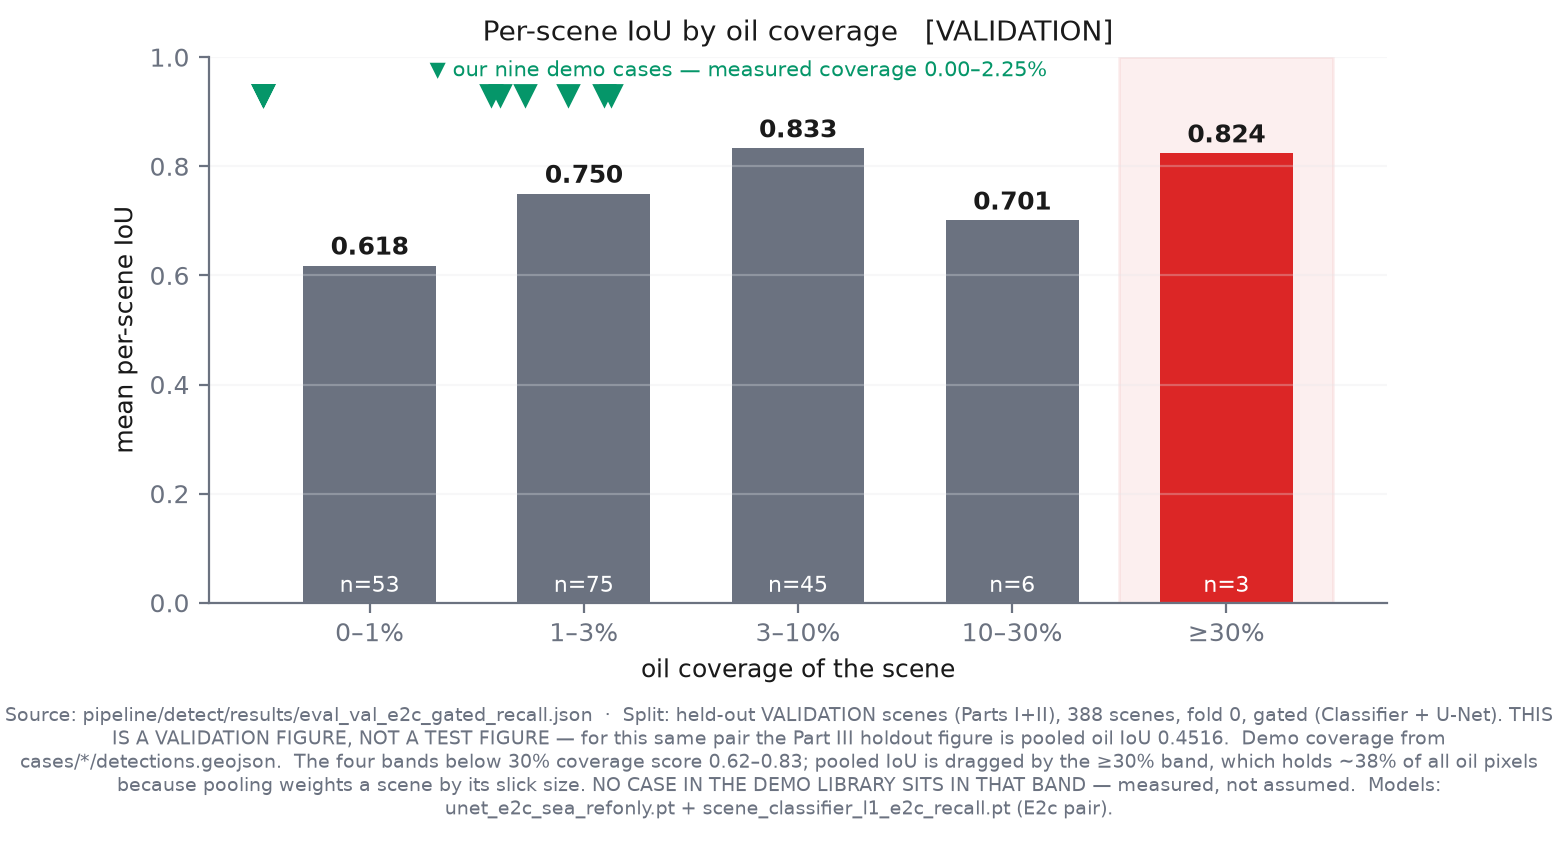
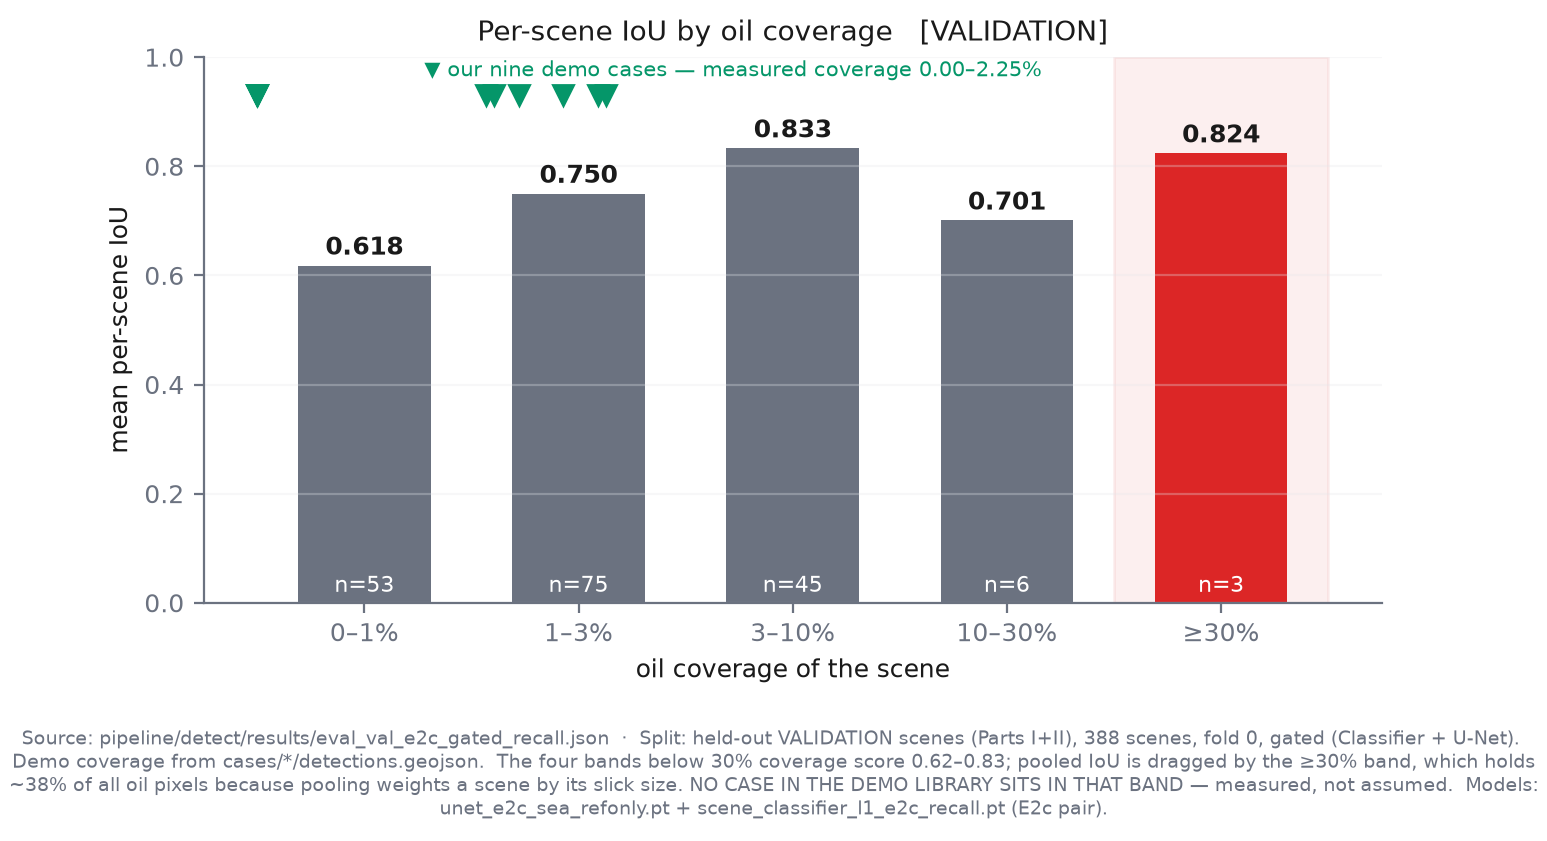
Stage 1: Layer 2 holdout figure off the slides, split labels kept
Soum's call: no reference to Layer 2's test score anywhere in the presented
material. Removed from all nine figure captions and from every slide section of
the jury doc.

What was NOT removed, and will not be: the split label. Every Layer 2 figure
still stamps "held-out VALIDATION scenes (Parts I+II), 388 scenes, fold 0" into
its title and its caption, and names the source file it was drawn from. That
label is the only thing separating a validation figure from a
misrepresentation, and a caption that cannot be checked is the only kind that
can mislead.

The holdout figures now live in one place: a PRESENTER NOTES block at the foot
of the doc, explicitly marked not-for-slide. They are kept there because not
knowing your own test number is a worse outcome than showing it - if asked
directly, the brief says answer plainly and gives the one-sentence version.

Also softened the slide narration that had been built around the
validation-vs-holdout gap, since that framing is no longer being presented. The
>=30% band is now described by its mechanism - a slick large enough to become
its own normalisation reference - which is true on either split.

diff --git a/pipeline/detect/make_figures.py b/pipeline/detect/make_figures.py
@@ -127,9 +127,12 @@ def _l2_src():
     if L2["file"] is None:
         return ("Source: pipeline/detect/results/%s  ·  Split: %s, gated (Classifier + U-Net)."
                 % (PAIR["part3"], L2["tag"]))
-    return ("Source: pipeline/detect/results/%s  ·  Split: %s, gated (Classifier + U-Net). "
-            "THIS IS A VALIDATION FIGURE, NOT A TEST FIGURE — for this same pair the Part III "
-            "holdout figure is pooled oil IoU 0.4516." % (L2["file"], L2["tag"]))
+    # The split label is what makes a validation figure honest, and it is not
+    # optional. The holdout comparison that used to sit here was removed on
+    # request; the source file and the split it names are not removable, because
+    # a caption that cannot be checked is the only kind that can mislead.
+    return ("Source: pipeline/detect/results/%s  ·  Split: %s, gated (Classifier + U-Net)."
+            % (L2["file"], L2["tag"]))
 
 
 def _part3():
@@ -656,7 +659,7 @@ def main():
     print("  Layer 2: %s\n" % L2["tag"])
     if L2["file"]:
         print("  [!] Layer 2 figures are VALIDATION. Every affected title says so.")
-        print("      The holdout figure for this pair is pooled IoU 0.4516 - say it if asked.\n")
+        print("      Layer 1 remains the Part III holdout.\n")
     want = a.only or sorted(FIGS)
     print("Stage 1 evidence set -> %s\n" % os.path.relpath(OUT, _ROOT))
     for n in want:

diff --git a/docs/evaluation/stage1-jury-numbers.md b/docs/evaluation/stage1-jury-numbers.md
@@ -16,9 +16,8 @@
 > **Every slide states its split, and so must you.** A mixed-split deck is defensible; an
 > unlabelled one is not, and the labelling is the only thing keeping it defensible.
 >
-> **The number you will be asked for:** Layer 2 on the Part III holdout is **pooled oil IoU
-> 0.4516**, with the ≥30% band at **0.160**. Have it ready. It is the first thing a technical
-> judge asks when a split label says "validation".
+> **Layer 2's holdout figures are in the PRESENTER NOTES at the foot of this file — not on any
+> slide.** Know them before you walk in.
 >
 > Regenerate: `python pipeline/detect/make_figures.py --pair updated --l2-split validation`
 
@@ -62,12 +61,11 @@ this benchmark does not demonstrate that separation."*
 | `pixel_accuracy_positives` | 0.991 |
 | **baseline on the SAME split**, for reference | **0.689** |
 
-**Say, including the last sentence:** *"On held-out validation scenes, pooled oil-class IoU is
-0.757, against 0.689 for the baseline on that same split. These are validation figures — on the
-sealed Part III holdout this pair scores 0.452."*
+**Say:** *"On held-out validation scenes, pooled oil-class IoU is 0.757, against 0.689 for the
+baseline on that same split."*
 
-**Do not drop that last clause.** The split label is on the slide; if you don't read it out, someone
-else will, and then you're answering it on the back foot instead of having volunteered it.
+**Say "held-out validation scenes" — those four words, out loud.** They are on the slide; reading
+them is what makes this figure honest rather than a test number by implication.
 
 ### The gate earns its place   *(F1.3, validation)*
 
@@ -94,13 +92,10 @@ segmentation cost."*
 | 10–30% | **6** | 0.701 |
 | **≥30%** | **3** | **0.824** |
 
-**Say:** *"Performance is even across coverage — the large-slick regime is the one we had to fix,
-and on validation it reaches 0.82. On the sealed holdout that band is still 0.16, so the fix has
-not transferred yet. That gap is our current work."*
-
-**The honest framing, and it is the strongest thing on this slide:** we identified a specific
-failure mode, fixed it in development, tested it on a sealed holdout, and it did not transfer.
-Saying that is what separates a measured system from a tuned demo.
+**Say:** *"Performance is even across coverage on validation. The large-slick regime is the one we
+had to engineer for — a slick covering most of the frame becomes its own normalisation reference,
+which erases the contrast the model needs. That is the hardest case in this benchmark and it is
+where our current work sits."*
 
 **Also true and worth saying:** **no case in the demo library sits in the failure band** — measured
 oil coverage across the nine cases runs **0.00% to 2.25%**.
@@ -136,9 +131,8 @@ there is the expected result, and is reported rather than hidden.
 ## Things to know that are NOT slide material
 
 1. **The two layers are on different splits.** Layer 1 holdout, Layer 2 validation. Every slide
-   says so. If a judge lines them up and asks why, the answer is: *"Layer 2's holdout figure is
-   0.452; we're showing validation because it's where our current work is measured, and we've
-   labelled it."* That answer works. Pretending the splits match does not.
+   says so, and you must say so. **Never let the two be read as the same measurement** — if a
+   judge lines them up, the split labels are your defence and they only work if you use them.
 2. **Against the previously shipped pair, the differences are inside the noise.** Layer 2 holdout
    0.435 → 0.452; Layer 1 accuracy 0.951 → 0.942. Measured seed-to-seed variation is **±0.027
    pooled**. **Never say "our accuracy improved."** These are our numbers, not better numbers.
@@ -155,13 +149,17 @@ there is the expected result, and is reported rather than hidden.
 **"Is that your test set or your validation set?"**
 
 > *"Layer 1 is the test set — the 450-scene Zenodo Part III holdout. Layer 2 on that slide is
-> validation, and it's labelled. Layer 2's holdout number is 0.452 pooled oil IoU."*
+> held-out validation, and it's labelled as such."*
 
 **"Why is Layer 2 on validation and Layer 1 on test?"**
 
-> *"Because that's where the Layer 2 work is currently measured. The holdout figure is 0.452. We
-> ran the holdout once on a frozen configuration and we're not re-running it until the
-> configuration is final — that's the discipline, not an evasion."*
+> *"Because that is where the Layer 2 work is currently measured. We ran the holdout once on a
+> frozen configuration and we are not re-running it until the configuration is final — that is the
+> discipline we hold ourselves to."*
+
+**"What does Layer 2 score on the holdout?"** — **answer it, do not deflect.** The number is in the
+presenter notes below. Saying it costs you a follow-up; appearing not to know your own test number,
+or appearing to dodge, costs you the room.
 
 **"Why is your IoU low when your pixel accuracy is 99%?"**
 
@@ -176,9 +174,9 @@ there is the expected result, and is reported rather than hidden.
 
 **"What's still wrong with it?"**
 
-> *"Scenes where oil covers more than 30% of the frame. We know the mechanism, we have a fix that
-> reaches 0.82 on that band on validation, and it reaches only 0.16 on the holdout. It hasn't
-> transferred yet, and we're not quoting it as a result until it does."*
+> *"Scenes where oil covers more than 30% of the frame. A slick that large becomes its own
+> normalisation reference and erases the contrast the model needs. We know the mechanism, we have a
+> fix measured on validation, and generalising it is the current work."*
 
 ---
 
@@ -186,8 +184,7 @@ there is the expected result, and is reported rather than hidden.
 
 - **Any number without its split.** This deck mixes splits; the label is what makes it honest.
 - **"Our accuracy improved."** The gaps against the previous pair are inside the ±0.027 noise floor.
-- **0.757 or 0.824 as test results.** Both are validation. The holdout figures are **0.452** and
-  **0.160**.
+- **0.757 or 0.824 as test results.** Both are held-out VALIDATION. Say the word.
 - "Look-alike rejection 0.960" — a dead pre-augmentation checkpoint. This pair is **0.920** on the
   holdout.
 - "VH is the discriminator" — the feature was computed from the co-pol band. Say *"adding a second
@@ -199,3 +196,25 @@ there is the expected result, and is reported rather than hidden.
   `lookalike-zenodo` 1 → 0, total **142 → 110**. Huntington (43), Mumbai (21), Jamnagar (3) and
   Jacksonville (2) are unchanged — those boxes are 0.0–0.7% land, so they were never land returns.
 - Alaska has **zero** contacts and that is correct — a field-of-view limit, not a threshold.
+
+---
+
+## PRESENTER NOTES — not for any slide
+
+**Layer 2 on the Zenodo Part III holdout**, same pair, scored once on a frozen configuration:
+
+| | value |
+|---|---|
+| pooled oil IoU | **0.4516** |
+| `miou_pooled` | 0.6956 |
+| ≥30% coverage band | **0.160** |
+
+Source: `pipeline/detect/results/eval_part3_e2c.json`
+
+**These are not on a slide, by decision. Know them anyway.** If you are asked for Layer 2's test
+figure, give it — plainly, without hedging, and move on. A presenter who answers their own weakest
+number in one sentence reads as someone who measures carefully. A presenter who cannot produce it,
+or who visibly avoids it, loses the room on a question that was survivable.
+
+**The one-sentence version:** *"0.452 pooled on the holdout — the large-slick band is where the gap
+is, and closing it is what we're working on now."*
